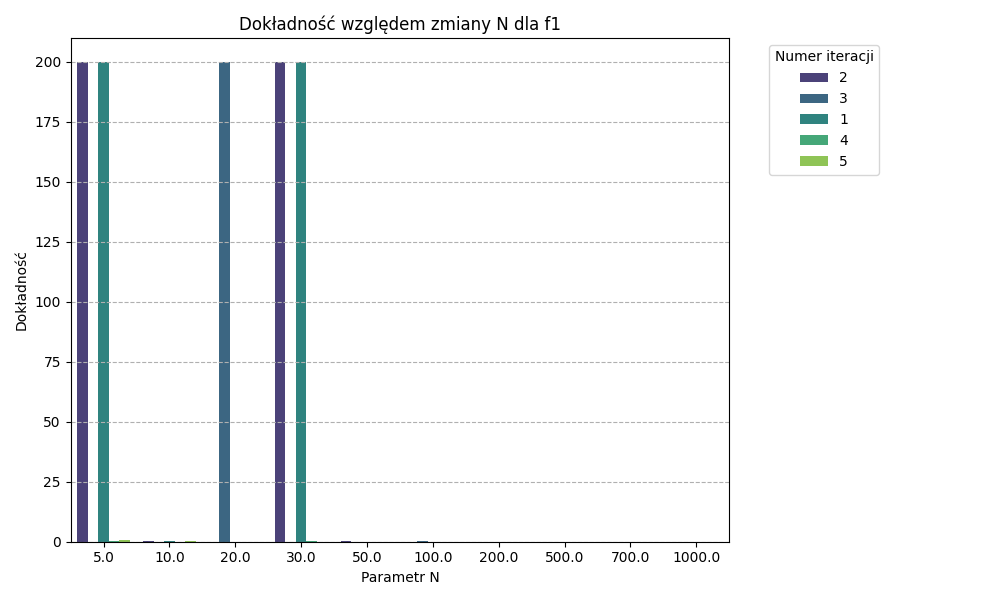
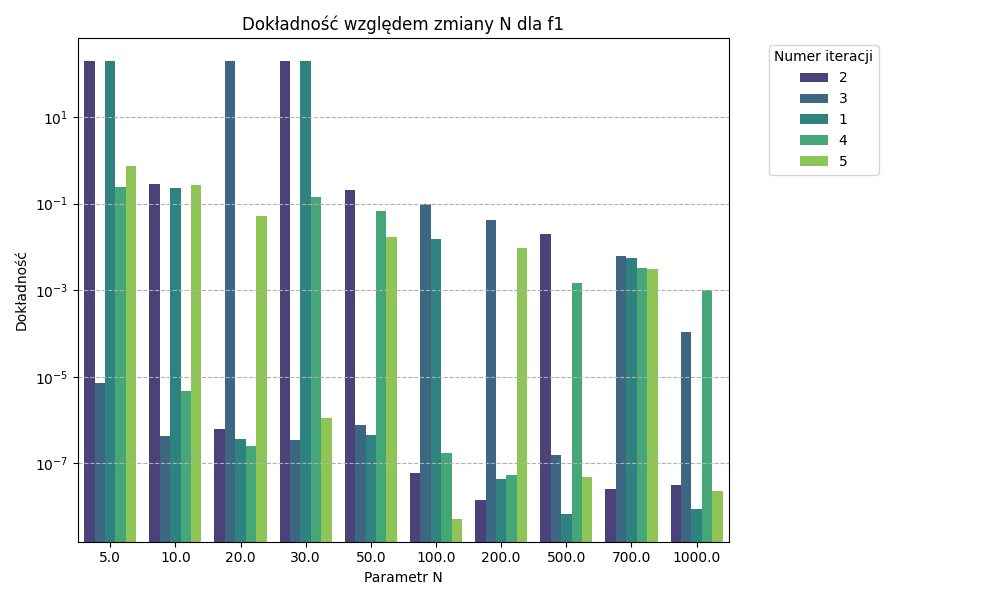
Skala logarytmiczna na wykresach - chyba jest git

Changed region(s): [[0.031, 0.09, 0.744, 0.99], [0.217, 0.03, 0.558, 0.06], [0.775, 0.09, 0.868, 0.12]]

diff --git a/Zad2 - Symulacja Wyżarzania/output_analyser.py b/Zad2 - Symulacja Wyżarzania/output_analyser.py
@@ -10,6 +10,7 @@ def wczytaj_dane_z_json(nazwa_pliku):
 
 def wykres_czasu(dane, parametr, f):
     plt.figure(figsize=(10, 6))
+    plt.yscale('log')
     sns.barplot(x=parametr, y='czas', hue='nr_iteracji', data=dane, errorbar='sd', palette='viridis')
     plt.title(f'Czas wykonania algorytmu wględem {parametr} dla {f}')
     plt.xlabel(f'Parametr {parametr}')
@@ -18,11 +19,12 @@ def wykres_czasu(dane, parametr, f):
     plt.legend(title='Numer iteracji', bbox_to_anchor=(1.05, 1), loc='upper left')
     plt.tight_layout(rect=[0, 0, 0.9, 1])
     plt.savefig(f'wykresy/wykres_czasu_{parametr}_{f}.png')
-    # plt.show()
+    plt.show()
     plt.close()
 
 def wykres_dokladnosci(dane, parametr, f):
     plt.figure(figsize=(10, 6))
+    plt.yscale('log')
     sns.barplot(x=parametr, y='dokladnosc', hue='nr_iteracji', data=dane, errorbar='sd', palette='viridis')
     plt.title(f'Dokładność względem zmiany {parametr} dla {f}')
     plt.xlabel(f'Parametr {parametr}')
@@ -31,11 +33,12 @@ def wykres_dokladnosci(dane, parametr, f):
     plt.legend(title='Numer iteracji', bbox_to_anchor=(1.05, 1), loc='upper left')
     plt.tight_layout(rect=[0, 0, 0.9, 1])
     plt.savefig(f'wykresy/wykres_dokladnosci_{parametr}_{f}.png')
-    # plt.show()
+    plt.show()
     plt.close()
 
 def wykres_iteracji(dane, parametr, f):
     plt.figure(figsize=(10, 6))
+    plt.yscale('log')
     sns.barplot(x=parametr, y='best_it', hue='nr_iteracji', data=dane, errorbar='sd', palette='viridis')
     plt.title(f'Liczba iteracji potrzebna w względem zmiany {parametr} dla {f}')
     plt.xlabel(f'Parametr {parametr}')
@@ -44,7 +47,7 @@ def wykres_iteracji(dane, parametr, f):
     plt.legend(title='Numer iteracji', bbox_to_anchor=(1.05, 1), loc='upper left')
     plt.tight_layout(rect=[0, 0, 0.9, 1])
     plt.savefig(f'wykresy/wykres_iteracji_{parametr}_{f}.png')
-    # plt.show()
+    plt.show()
     plt.close()
 
 def narysuj_wykresy(plik):

diff --git a/Zad2 - Symulacja Wyżarzania/main.py b/Zad2 - Symulacja Wyżarzania/main.py
@@ -1,7 +1,6 @@
 import random as r
 from math import exp, sin, pi
 import time
-import numpy as np
 import json
 
 f1_maksimum = 100
